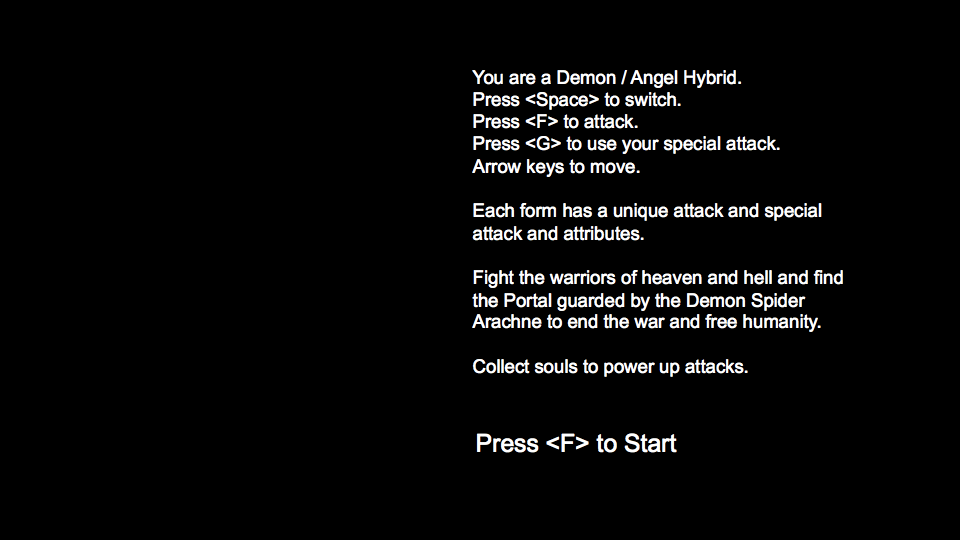
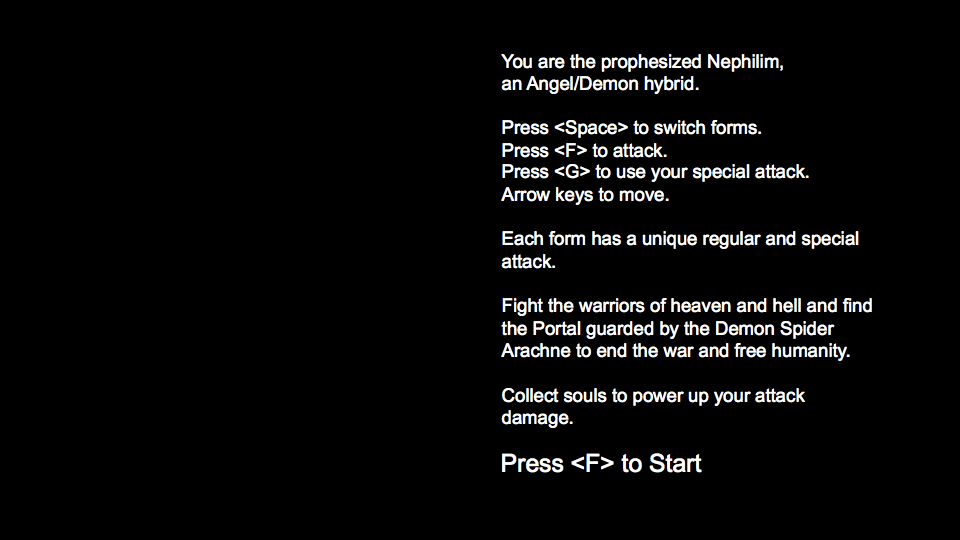
minor instructions updates

Changed region(s): [[0.4688, 0.0889, 0.9062, 0.8889]]

diff --git a/android/assets/game.tsx b/android/assets/game.tsx
@@ -1,5 +1,5 @@
 <?xml version="1.0" encoding="UTF-8"?>
-<tileset name="game" tilewidth="960" tileheight="540" tilecount="52" columns="0">
+<tileset name="game" tilewidth="960" tileheight="540" tilecount="54" columns="0">
  <grid orientation="orthogonal" width="1" height="1"/>
  <tile id="0">
   <image width="163" height="50" source="../../input_assets/game/play_down.png"/>
@@ -156,5 +156,11 @@
  </tile>
  <tile id="66">
   <image width="960" height="540" source="../../input_assets/death/instructions.png"/>
+ </tile>
+ <tile id="67">
+  <image width="341" height="100" source="../../input_assets/death/angeldetails.png"/>
+ </tile>
+ <tile id="68">
+  <image width="341" height="100" source="../../input_assets/death/demondetails.png"/>
  </tile>
 </tileset>
